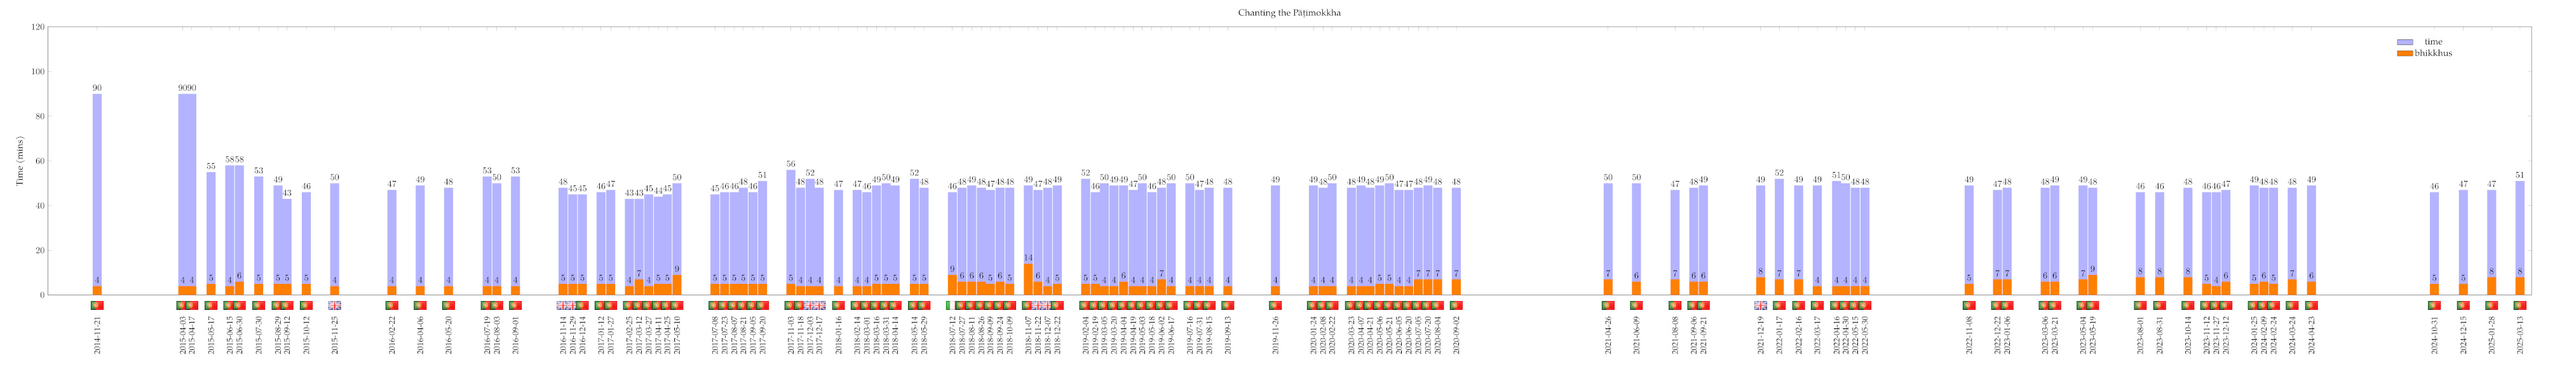
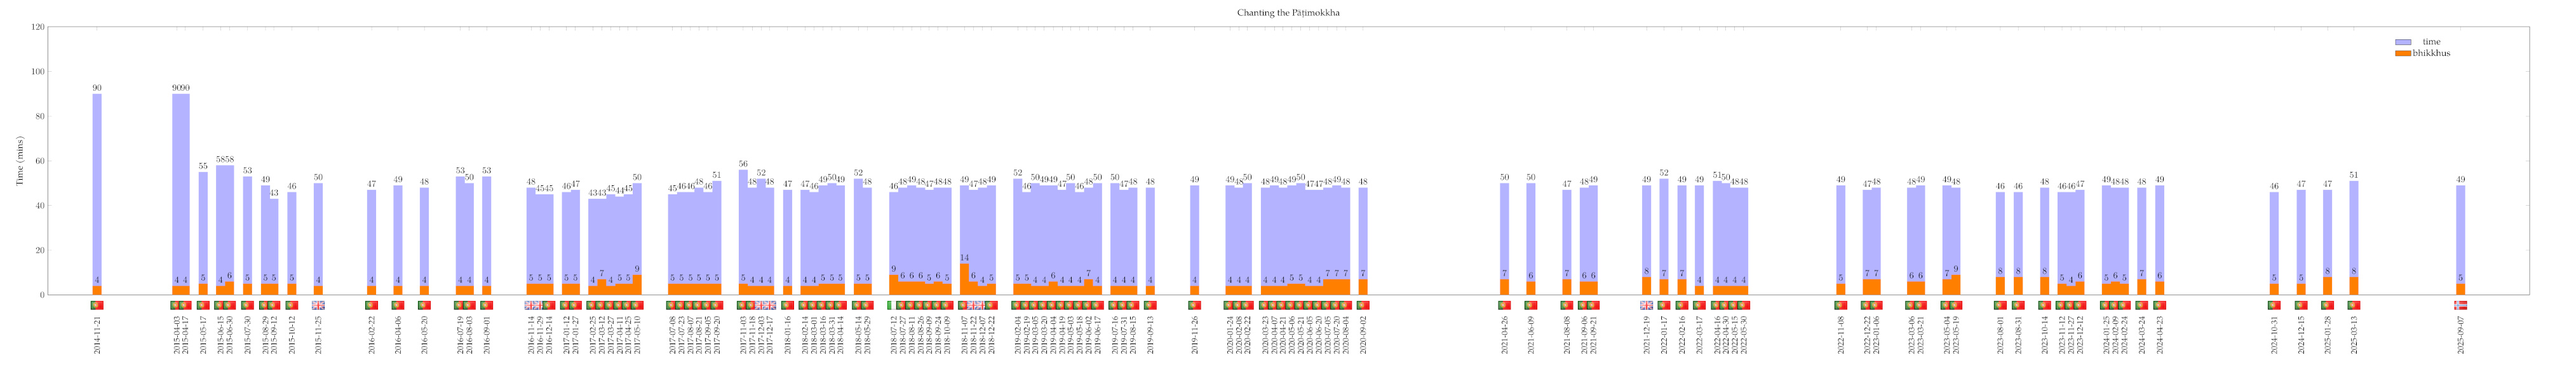
upd

Changed region(s): [[0.0622, 0.21, 0.9951, 0.93]]

diff --git a/src/patimokkha-chanting-chart.tex b/src/patimokkha-chanting-chart.tex
@@ -64,7 +64,7 @@
     ylabel=Time (mins),
     xtick=data,
     xmin=2014-11-20,
-    xmax=2025-03-31,
+    xmax=2025-12-31,
     enlarge x limits={rel=0.02,lower},
     xticklabel style={yshift=-20pt,rotate=90,anchor=east,font=\small},
     xticklabel={\year-\month-\day},
@@ -214,6 +214,7 @@
   \node [anchor=south, yshift=-20pt] at (axis cs:2024-12-15,0) {\includegraphics[width=5mm]{pt}};
   \node [anchor=south, yshift=-20pt] at (axis cs:2025-01-28,0) {\includegraphics[width=5mm]{pt}};
   \node [anchor=south, yshift=-20pt] at (axis cs:2025-03-13,0) {\includegraphics[width=5mm]{pt}};
+  \node [anchor=south, yshift=-20pt] at (axis cs:2025-09-07,0) {\includegraphics[width=5mm]{no}};
 
 \end{axis}
 \end{tikzpicture}
